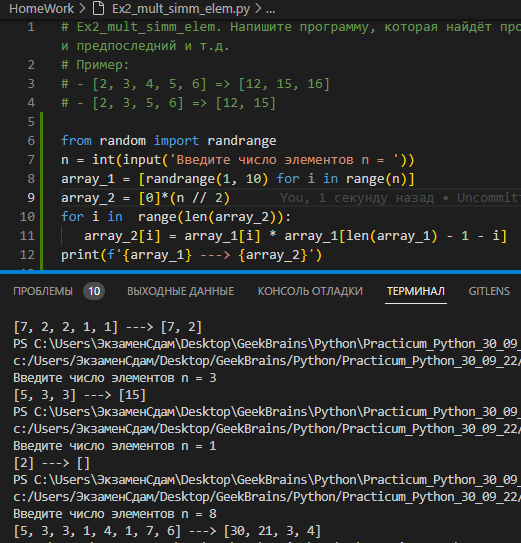
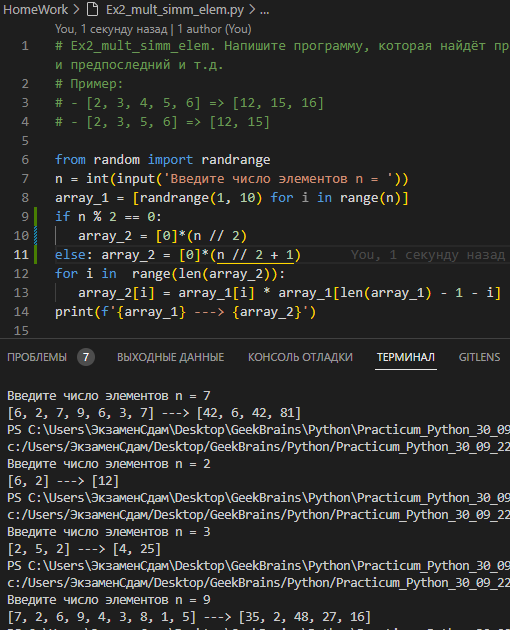
update HomeWork Ex2

diff --git a/HomeWork/Ex2_mult_simm_elem.py b/HomeWork/Ex2_mult_simm_elem.py
@@ -6,7 +6,9 @@
 from random import randrange
 n = int(input('Введите число элементов n = '))
 array_1 = [randrange(1, 10) for i in range(n)]
-array_2 = [0]*(n // 2)
+if n % 2 == 0:
+   array_2 = [0]*(n // 2)
+else: array_2 = [0]*(n // 2 + 1)
 for i in  range(len(array_2)):
    array_2[i] = array_1[i] * array_1[len(array_1) - 1 - i]
 print(f'{array_1} ---> {array_2}')
